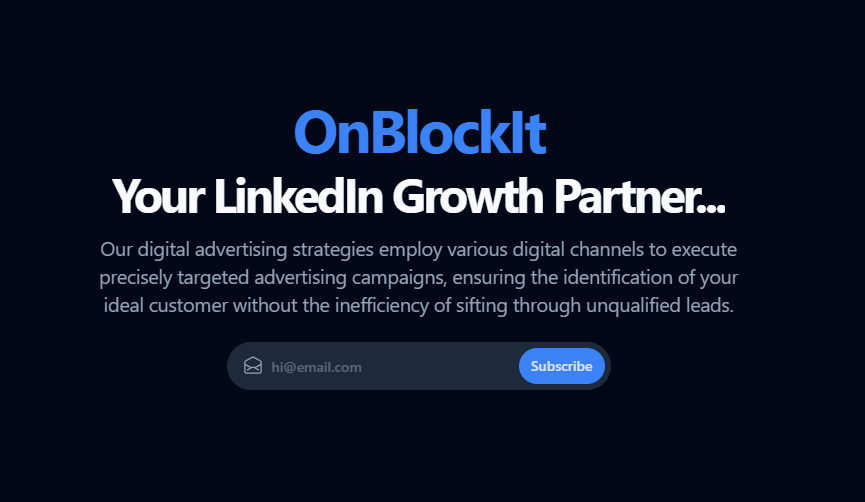
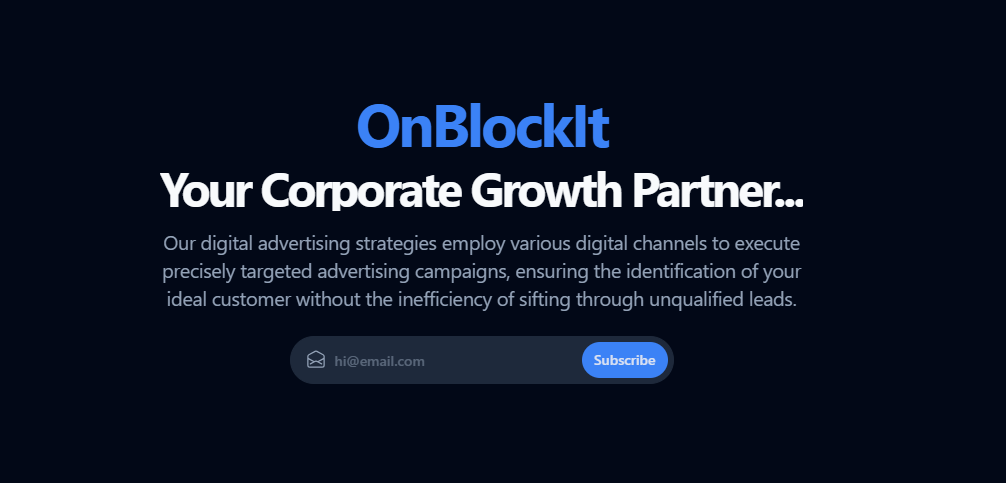
incubate: your corporate marketing agency added instead of linkeding

diff --git a/components/Services/NonTech/Incubate/OurIncubatees/OurIncubatees.tsx b/components/Services/NonTech/Incubate/OurIncubatees/OurIncubatees.tsx
@@ -19,7 +19,7 @@ export default function OurIncubatees() {
       name: 'OnBlockIT',
       url: 'https://onblockit.com',
       image: '/incubate/onblockit.png',
-      description: 'Your Linkedin Growth Agency'
+      description: 'Your Corporate Marketing Agency'
     }
   ];
 
